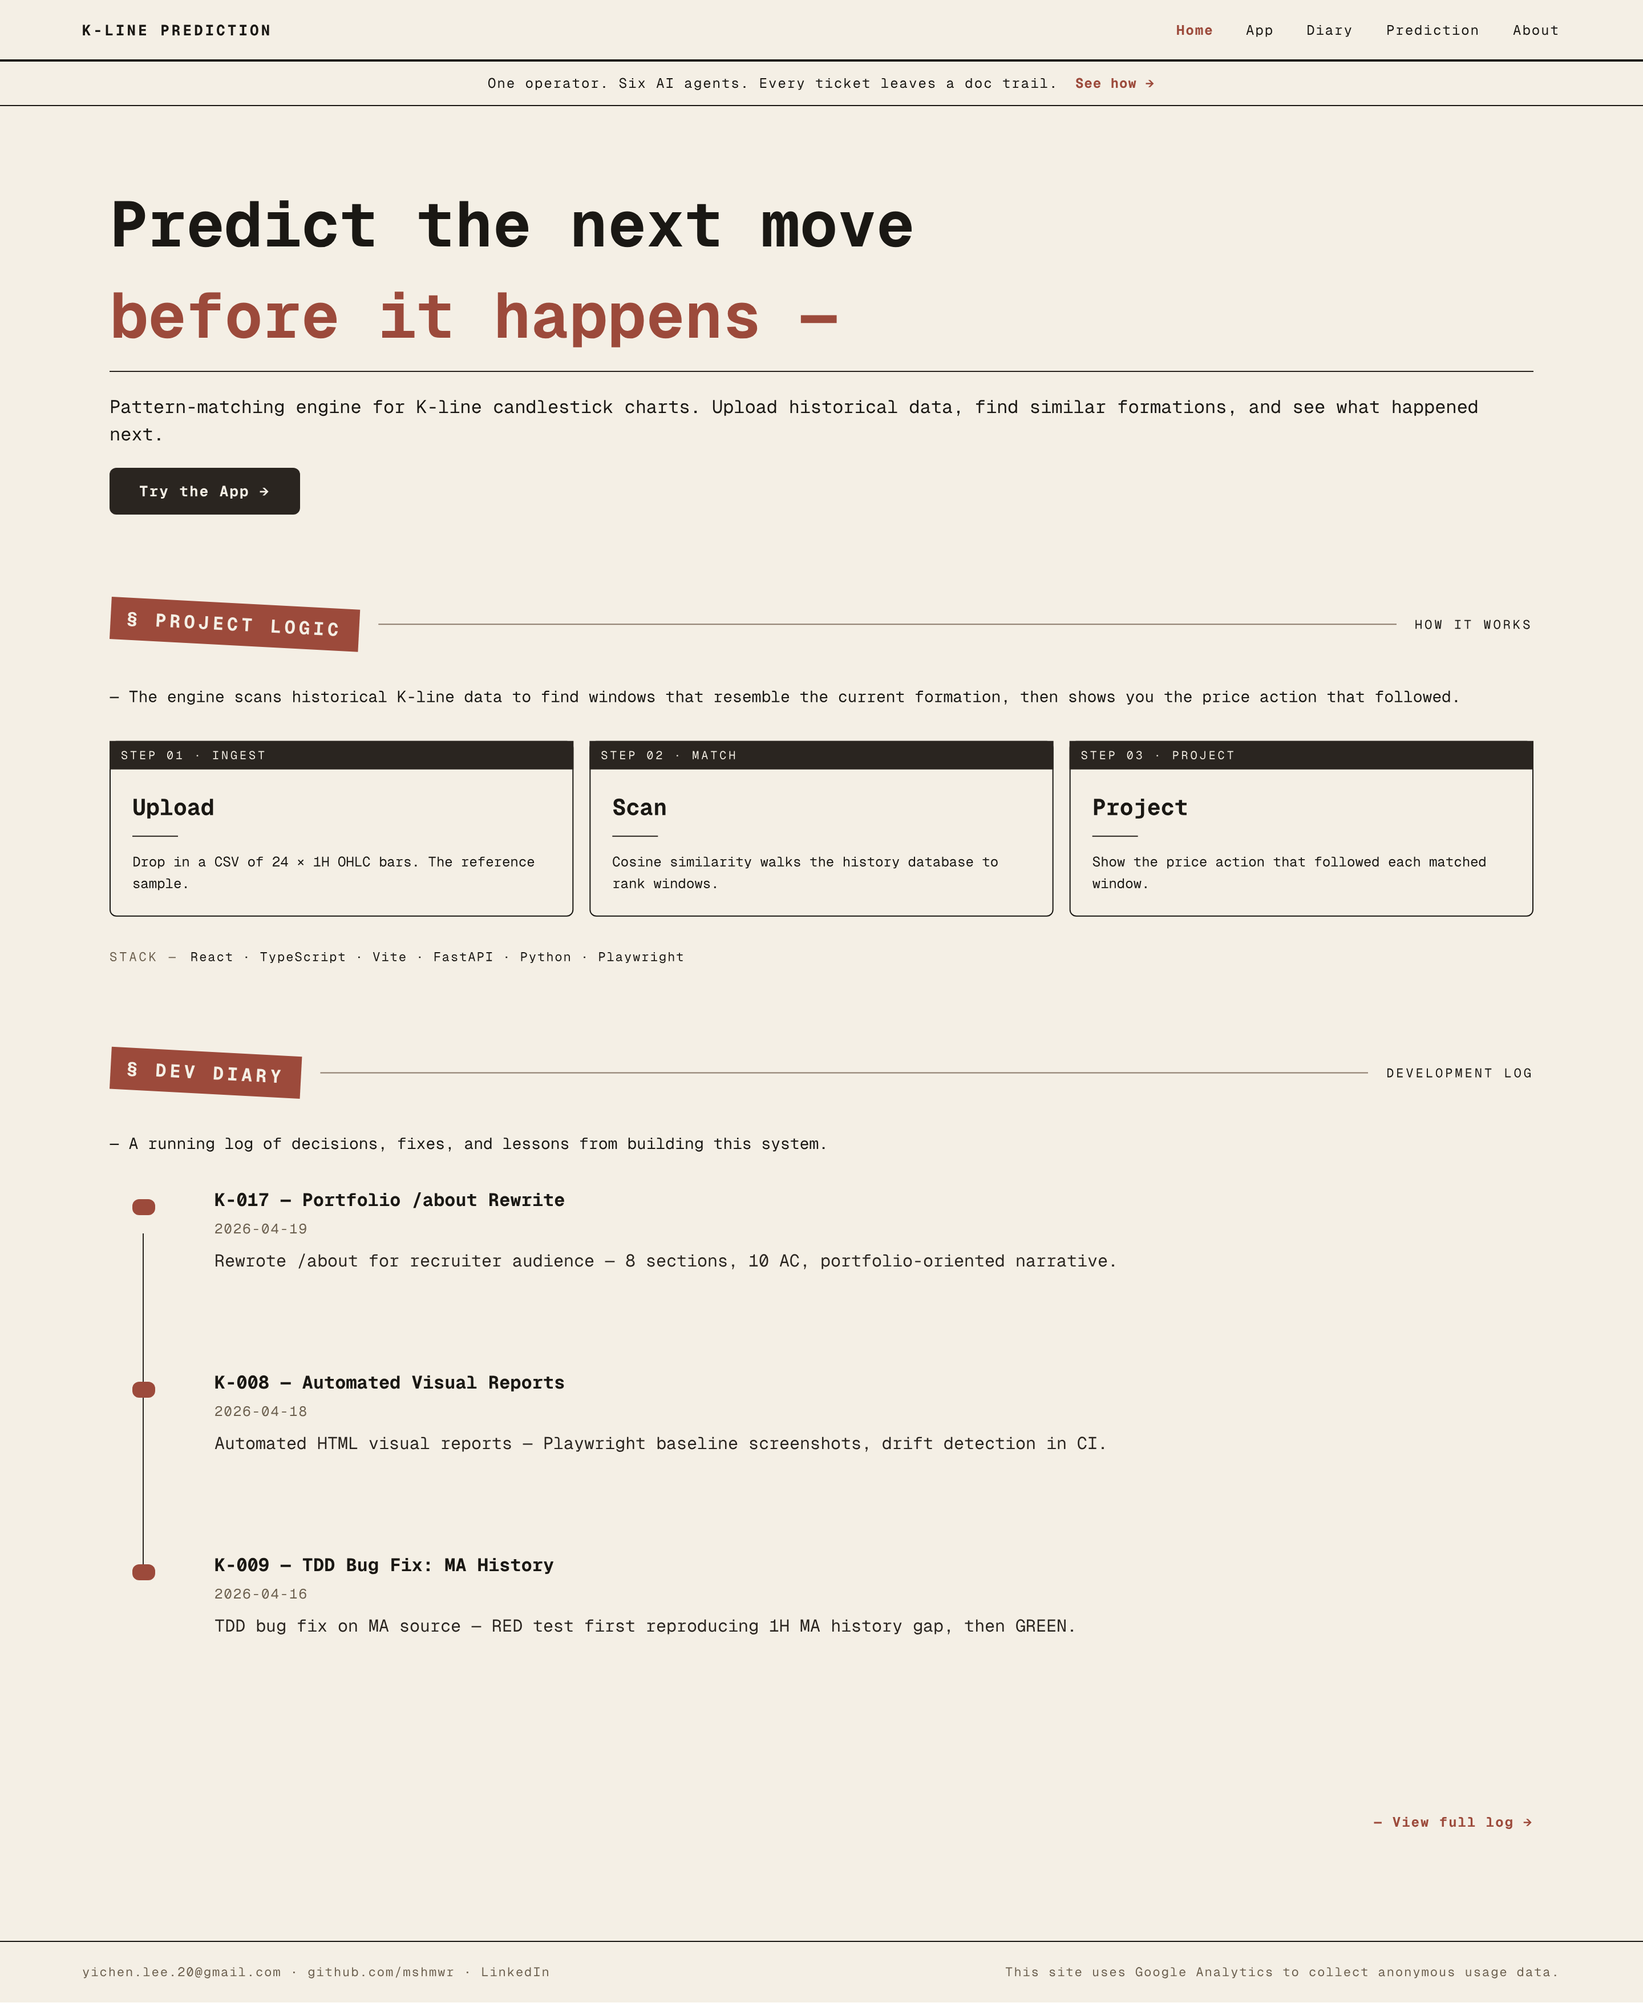
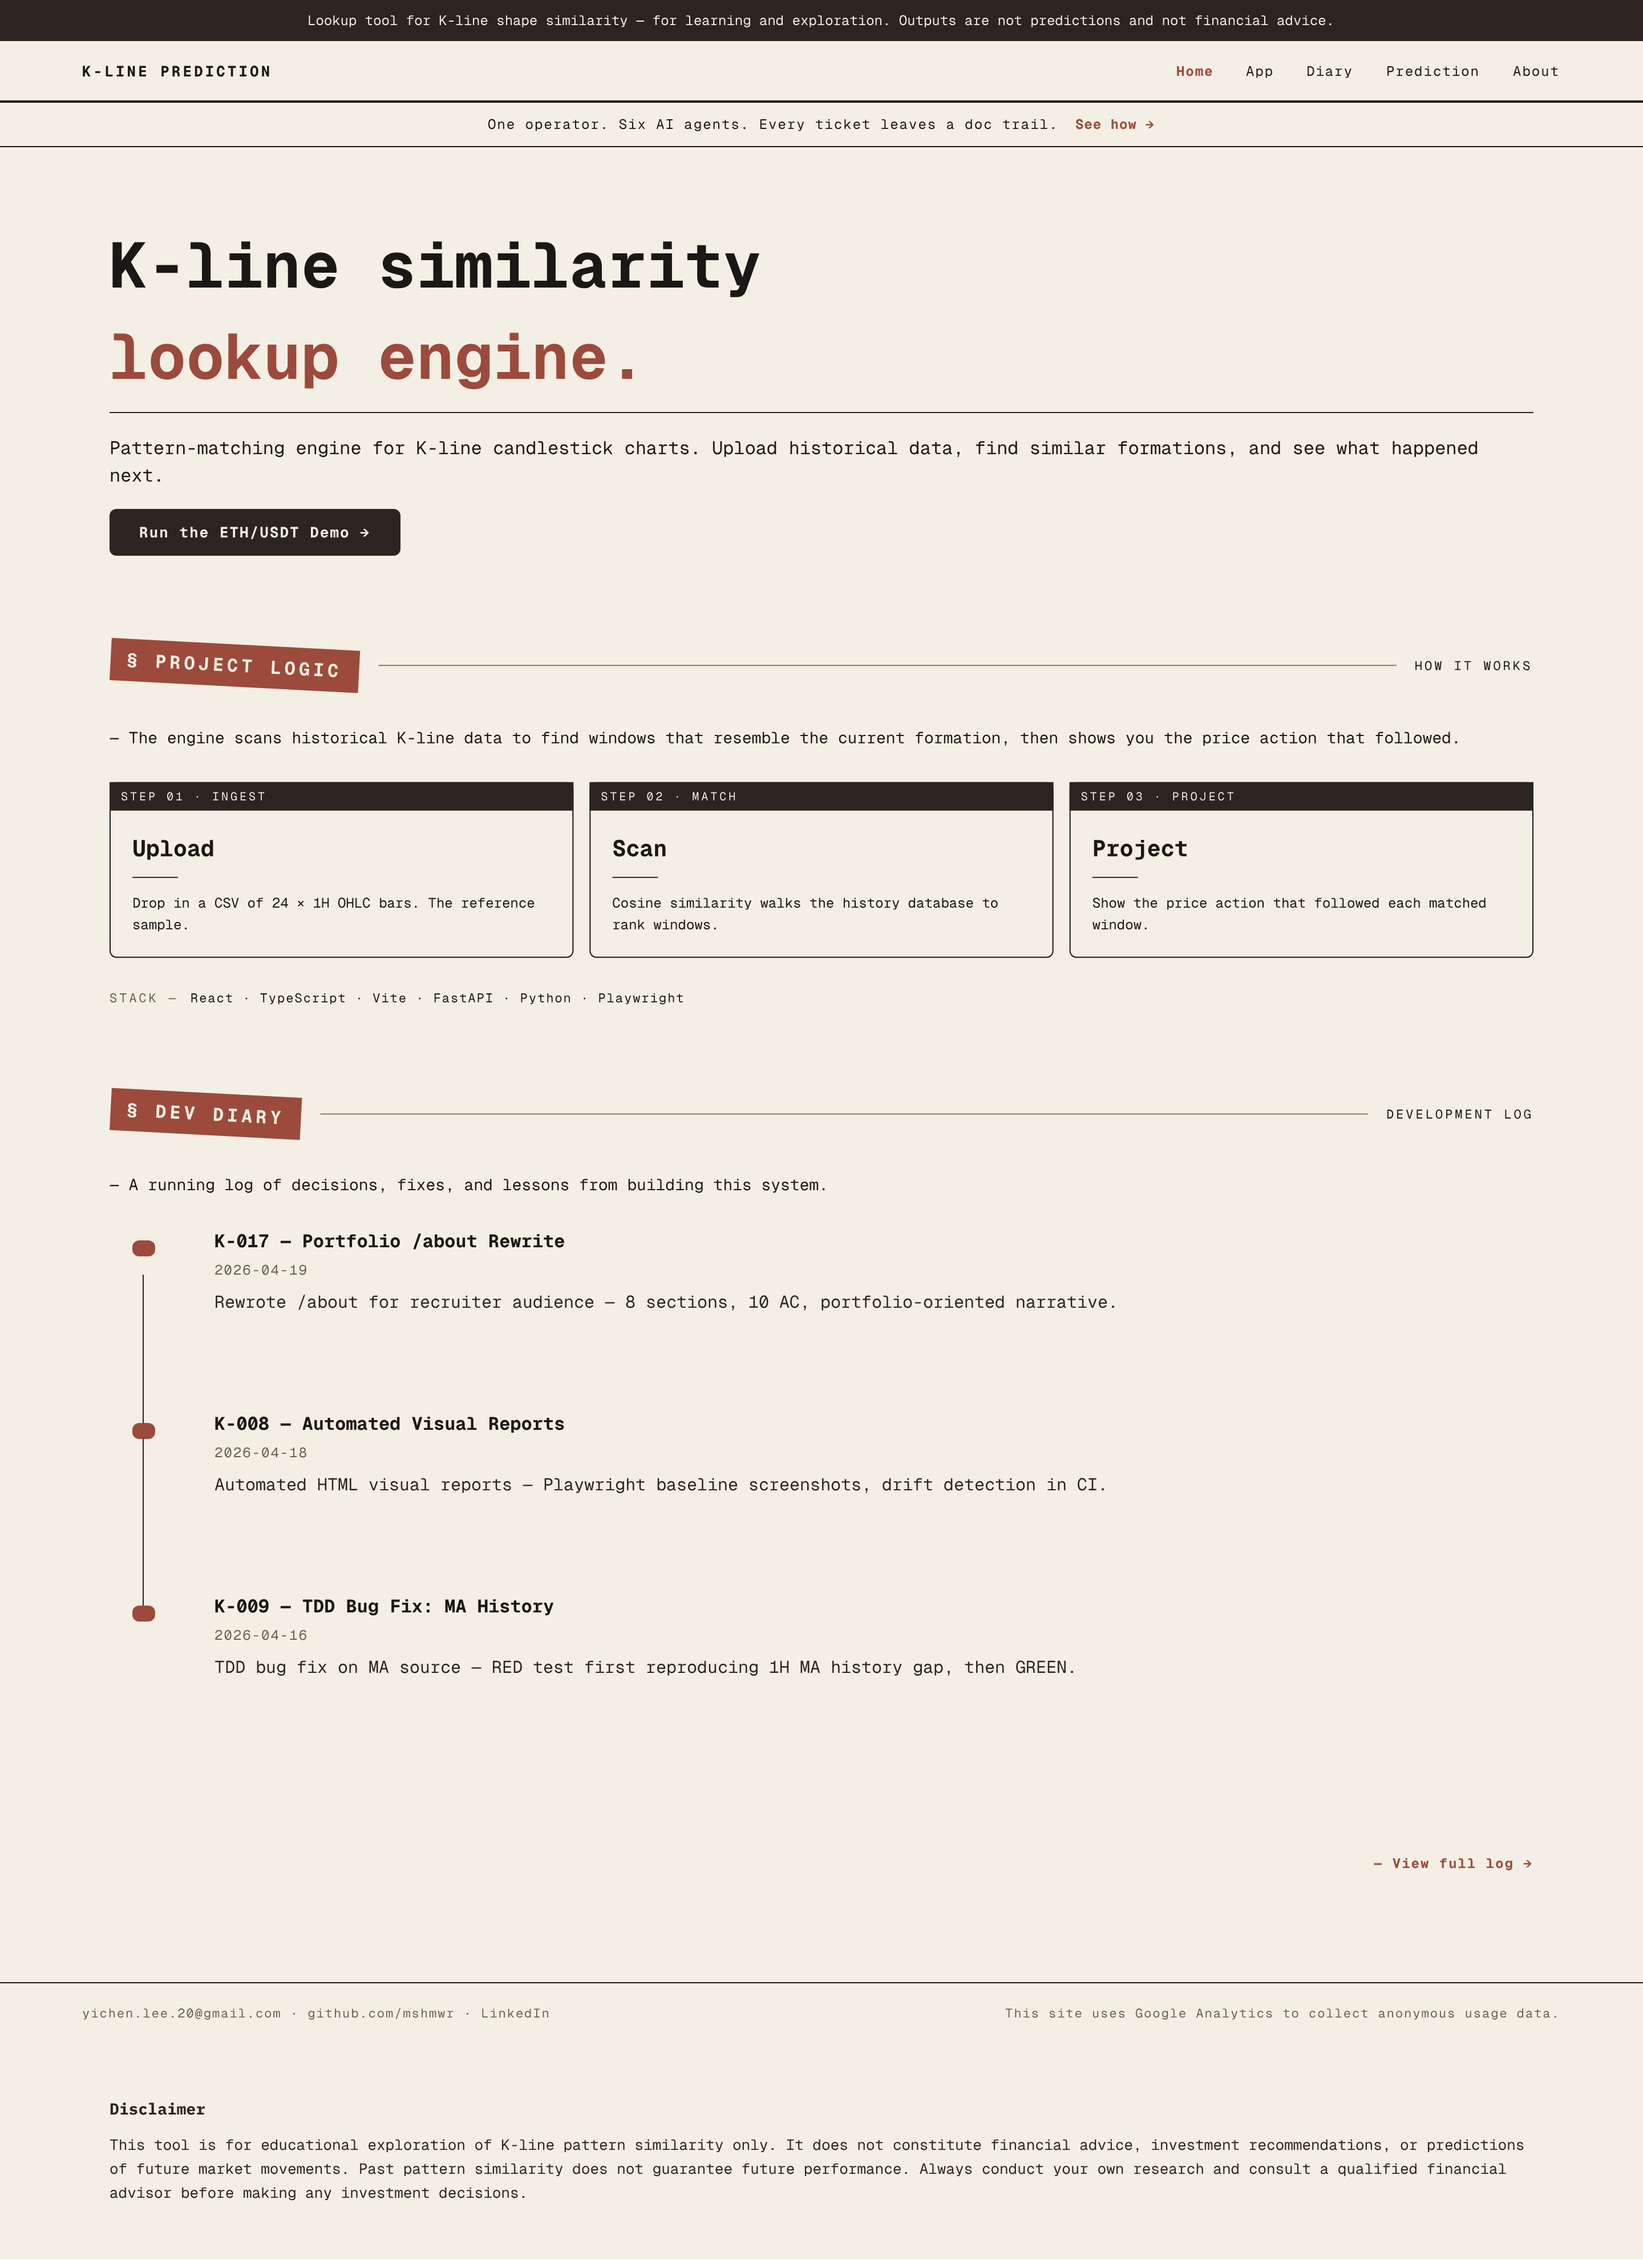
docs(K-060): K-057 SSOT backfill — DisclaimerBanner + DisclaimerSection design spec [docs-only]
Backfill K-060: add K-057 shipped components to Pencil SSOT and design doc.
Designer confirmed both components already in homepage-v2.pen across all 3 frames;
added K-057 spec table to K-023-homepage-structure.md; updated screenshot.
SSOT regen: featuresShipped 38→39 (K-060 counted). Ticket closed.

diff --git a/docs/designs/K-023-homepage-structure.md b/docs/designs/K-023-homepage-structure.md
@@ -349,3 +349,24 @@ No structural table changes needed. The component names and paths are already co
 **Which decisions needed revision:** Initial assumption that all 5 changes would require implementation. After design file analysis, A-3 is already complete and A-4/A-5 are contradicted by the design.
 
 **Next time improvement:** When a ticket says "Architect extracts text from design", check the design file BEFORE reading the ticket ACs in detail — this would have immediately surfaced the A-3/A-4/A-5 contradictions earlier and reduced total investigation time.
+
+---
+
+## K-057 New Components (2026-04-29 Backfill)
+
+Shipped in K-057 without Designer pass; SSOT backfilled in K-060 (2026-04-29).
+
+| Component | Location | Background | Text color | Font size | Copy |
+|---|---|---|---|---|---|
+| DisclaimerBanner | Top of every page, above Hero | `#2A2520` | `#F4EFE5` | 12px center Geist Mono | "Lookup tool for K-line shape similarity — for learning and exploration. Outputs are not predictions and not financial advice." |
+| DisclaimerSection | Bottom of page, below footer bar | paper `#F4EFE5` | ink `#2A2520` | 14px IBM Plex Mono heading / 13px Geist Mono body lh-1.6 | "This tool is for educational exploration of K-line pattern similarity only. It does not constitute financial advice…" (see `FooterDisclaimer.tsx`) |
+
+**Pencil nodes (frame `4CsvQ` Homepage):**
+- DisclaimerBanner: node `yYnSS`, height 36, `justifyContent: center`, child text node `iWZWh`
+- DisclaimerSection: node `qz7Po`, layout vertical, padding `[48, 96]`, gap 12, child nodes `wd7SP` (heading) + `Y2tTQR` (body)
+
+**Same components present across all page frames:**
+- `35VCj` (About): DisclaimerBanner `qnQHQ`, DisclaimerSection `QwyrN`
+- `4CsvQ` (Homepage): DisclaimerBanner `yYnSS`, DisclaimerSection `qz7Po`
+- `wiDSi` (Diary): DisclaimerBanner `ZqmEW`, DisclaimerSection `Us4NB`
+- `VSwW9` (Business Logic): DisclaimerBanner and DisclaimerSection absent (page has no footer section)

diff --git a/docs/retrospectives/designer.md b/docs/retrospectives/designer.md
@@ -14,6 +14,12 @@
 
 - 倒序（最新在上）
 
+## 2026-04-29 — K-060 DisclaimerBanner + DisclaimerSection SSOT backfill
+
+**What went well:** Both components already present in .pen (all 3 page frames); batch_get confirmed specs matched requirements without any batch_design needed; JSON spec and screenshot exported cleanly.
+**What went wrong:** DisclaimerBanner and DisclaimerSection shipped in K-057 without Designer pass — visual-delta:yes ticket executed as Engineer-direct with no design gate, leaving Pencil SSOT and design doc K-023 without spec table until K-060 backfill.
+**Next time improvement:** codified to feedback_visual_ssot_sync_gate.md — any ticket with visual-delta:yes that adds a new shared component must include a Designer phase (or same-session backfill commit) before PR merge.
+
 ## 2026-04-28 — K-058 pills-row orphan cleanup + session retro
 
 **What went wrong:** (1) `xu3l7` (`rpPillsRow`) was not deleted when switching from CSS pills to SVG approach — "delete table" scope did not trigger audit of other nodes serving the same purpose. (2) `qRYhe` (Role Pipeline table) duplicated compact card data — PRD item implemented without cross-section redundancy check. (3) G-4 git-status check not run after every `batch_design`, only at session end. (4) Section heading text `(compact)` was an implementation note treated as approved copy and written to Pencil.

diff --git a/docs/retrospectives/pm.md b/docs/retrospectives/pm.md
@@ -4,6 +4,14 @@ Cross-ticket cumulative reflection log. Each role agent appends one entry before
 
 Entry brevity rules (hard cap, 2026-04-27): see `ssot/workflow.md §Retrospective Entry Brevity` — ≤30 lines per entry, one sentence per field, no verbatim dumps, codify-and-retire same-commit gate.
 
+## 2026-04-29 — K-060 Close (K-057 SSOT backfill, docs-only)
+
+**What went well:** Designer confirmed both components already present in .pen across all 3 page frames — no batch_design needed; design doc spec table and screenshot exported cleanly; PM close with SSOT regen landed in a single docs-only PR.
+**What went wrong:** K-057 closed without enforcing the Visual SSOT sync gate for DisclaimerBanner and DisclaimerSection — both were Engineer-direct without a Designer pass, leaving Pencil and design doc stale until K-060.
+**Next time improvement:** Visual SSOT sync gate must be enforced before Phase A `gh pr create` for any ticket with `visual-delta: yes`, including Engineer-direct phases that add new shared components.
+
+---
+
 ## 2026-04-29 — K-058 Close (merged 80e061a1, deployed)
 
 **What went well:** All 8 ACs shipped; 272 chromium tests pass + 23 known-reds all documented; Firebase deploy clean; no post-deploy rollback required.

diff --git a/docs/tickets/K-060-k057-ssot-backfill.md b/docs/tickets/K-060-k057-ssot-backfill.md
@@ -1,7 +1,9 @@
 ---
 id: K-060
 title: K-057 SSOT backfill — Pencil .pen + design doc spec tables for DisclaimerBanner + Disclaimer footer section (visual-delta sync gap)
-status: open
+status: closed
+closed: 2026-04-29
+closed-commit: TBD
 created: 2026-04-28
 type: docs
 priority: medium
